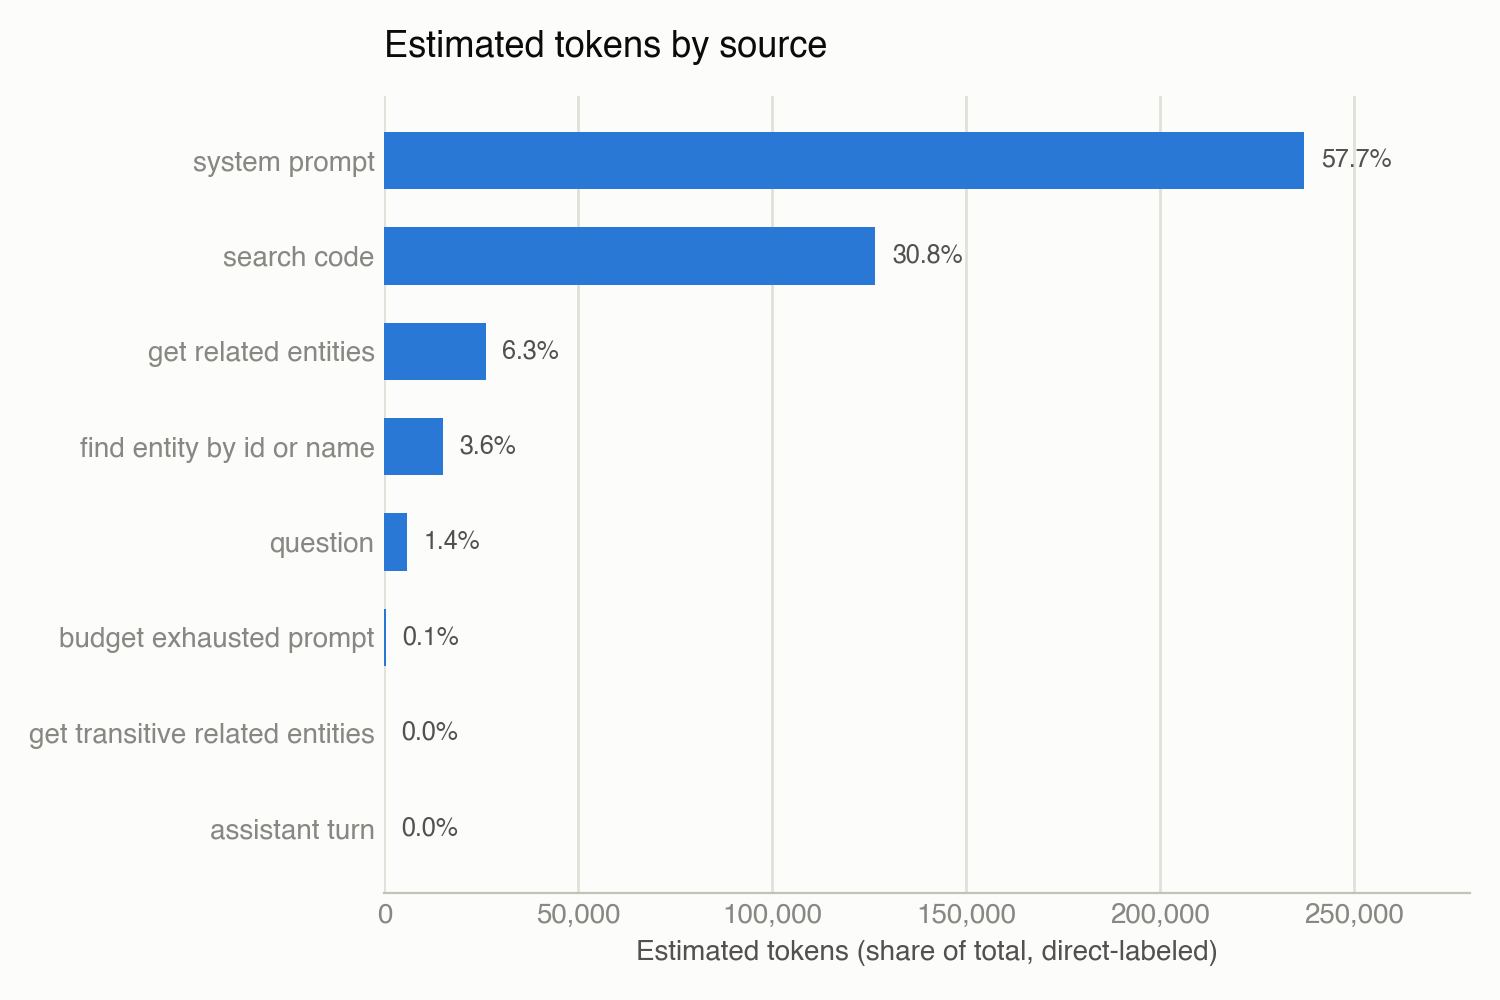
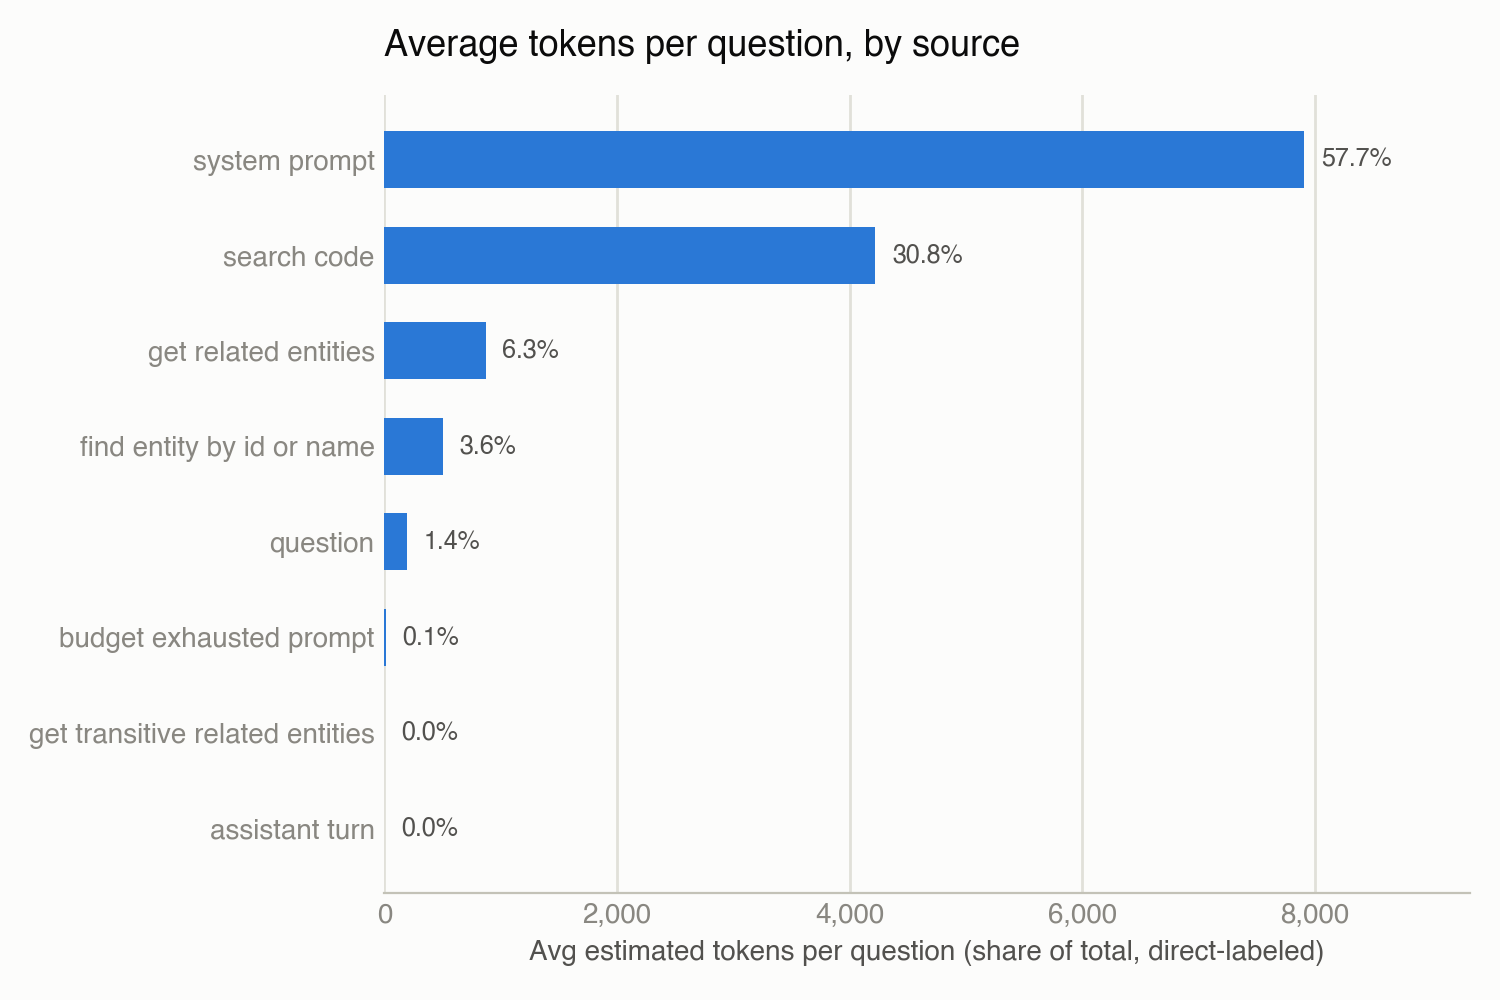
Normalize tokens-by-source chart to avg per question, not run total
Same standard as tokens_by_prompt_type: divide by distinct question
count, not call count. Share-of-total percentages are unchanged (they're
ratios), only the token axis moves from a 106-call run total to a
per-question average -- keeps the chart comparable across future runs
with a different number of questions.

diff --git a/src/qa_agent/cost_plots.py b/src/qa_agent/cost_plots.py
@@ -111,9 +111,14 @@ def plot_tokens_by_prompt_type(records: list[dict], out_path: Path) -> None:
 
 def plot_tokens_by_source(records: list[dict], out_path: Path) -> None:
     by_source = aggregate_by_source(records)
+    # Normalize by question count, not call count -- same standard as
+    # plot_tokens_by_prompt_type, and it keeps this chart comparable across
+    # future runs with a different number of questions. Share-of-total is
+    # unaffected by the divisor (it's a ratio), only the token axis changes.
+    num_questions = len({r["question_id"] for r in records})
     items = list(by_source.items())[::-1]  # reverse: barh draws bottom-up, want largest on top
     labels = [tag.replace("tool:", "").replace("_", " ") for tag, _ in items]
-    values = [v["estimated_tokens"] for _, v in items]
+    values = [v["estimated_tokens"] / num_questions for _, v in items]
     shares = [v["share_of_total"] for _, v in items]
 
     fig, ax = plt.subplots(figsize=(7.5, 5))
@@ -130,9 +135,9 @@ def plot_tokens_by_source(records: list[dict], out_path: Path) -> None:
     ax.set_yticks(list(y))
     ax.set_yticklabels(labels, fontsize=10)
     ax.set_xlim(0, max_v * 1.18)
-    ax.xaxis.set_major_formatter(mticker.FuncFormatter(lambda v, _: f"{int(v):,}"))
-    ax.set_xlabel("Estimated tokens (share of total, direct-labeled)")
-    ax.set_title("Estimated tokens by source", fontsize=13, fontweight="bold", loc="left", pad=14)
+    ax.xaxis.set_major_formatter(mticker.FuncFormatter(lambda v, _: f"{v:,.0f}"))
+    ax.set_xlabel("Avg estimated tokens per question (share of total, direct-labeled)")
+    ax.set_title("Average tokens per question, by source", fontsize=13, fontweight="bold", loc="left", pad=14)
     ax.grid(axis="x", color=GRIDLINE, linewidth=1, zorder=0)
     ax.set_axisbelow(True)
     _clean_axes(ax)